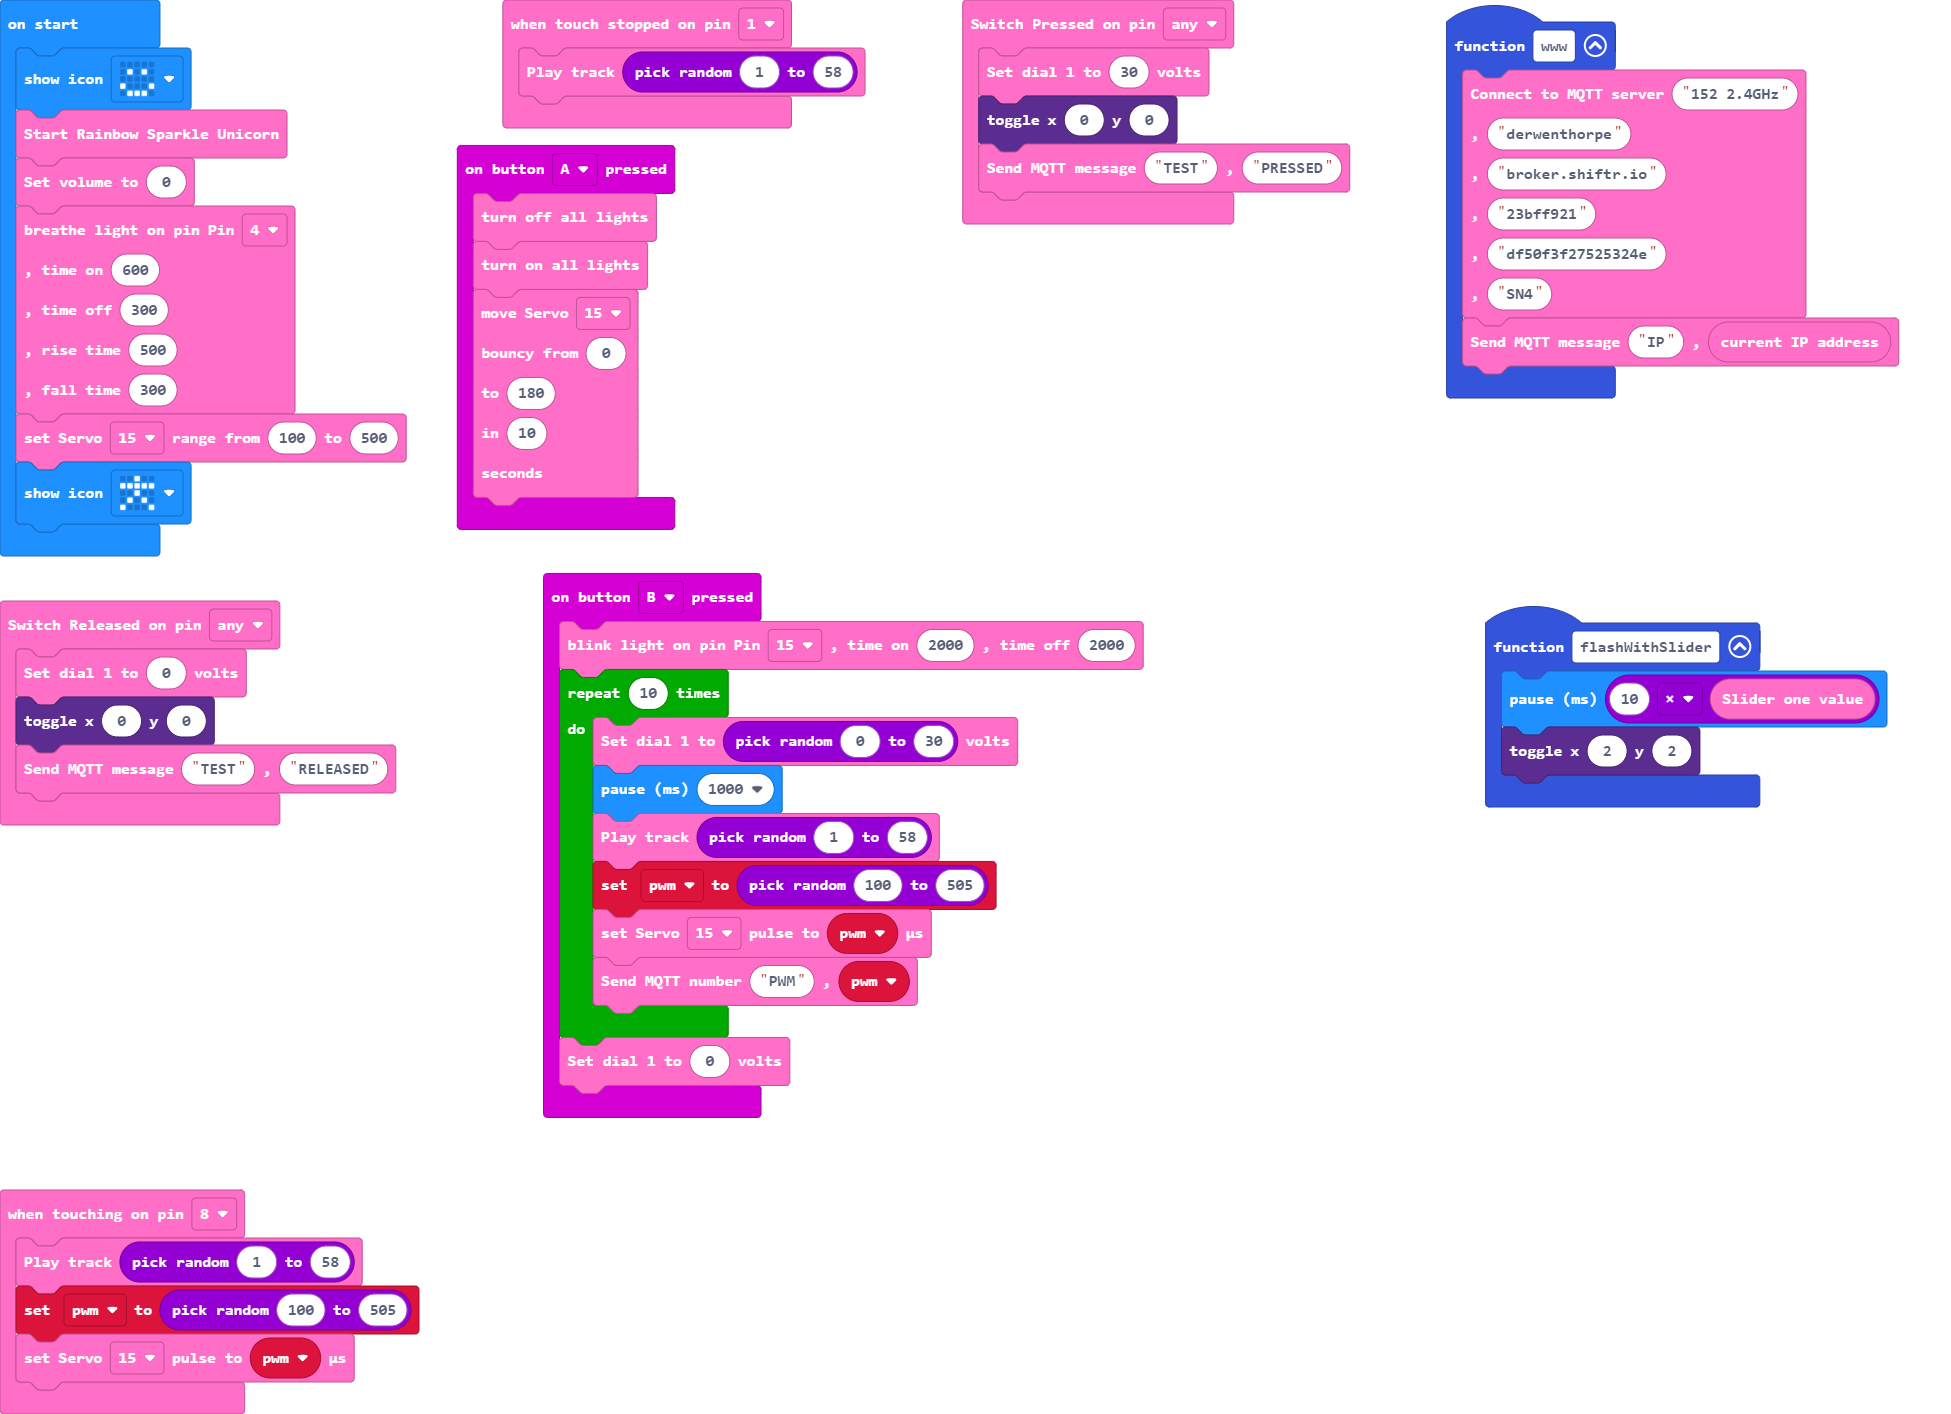
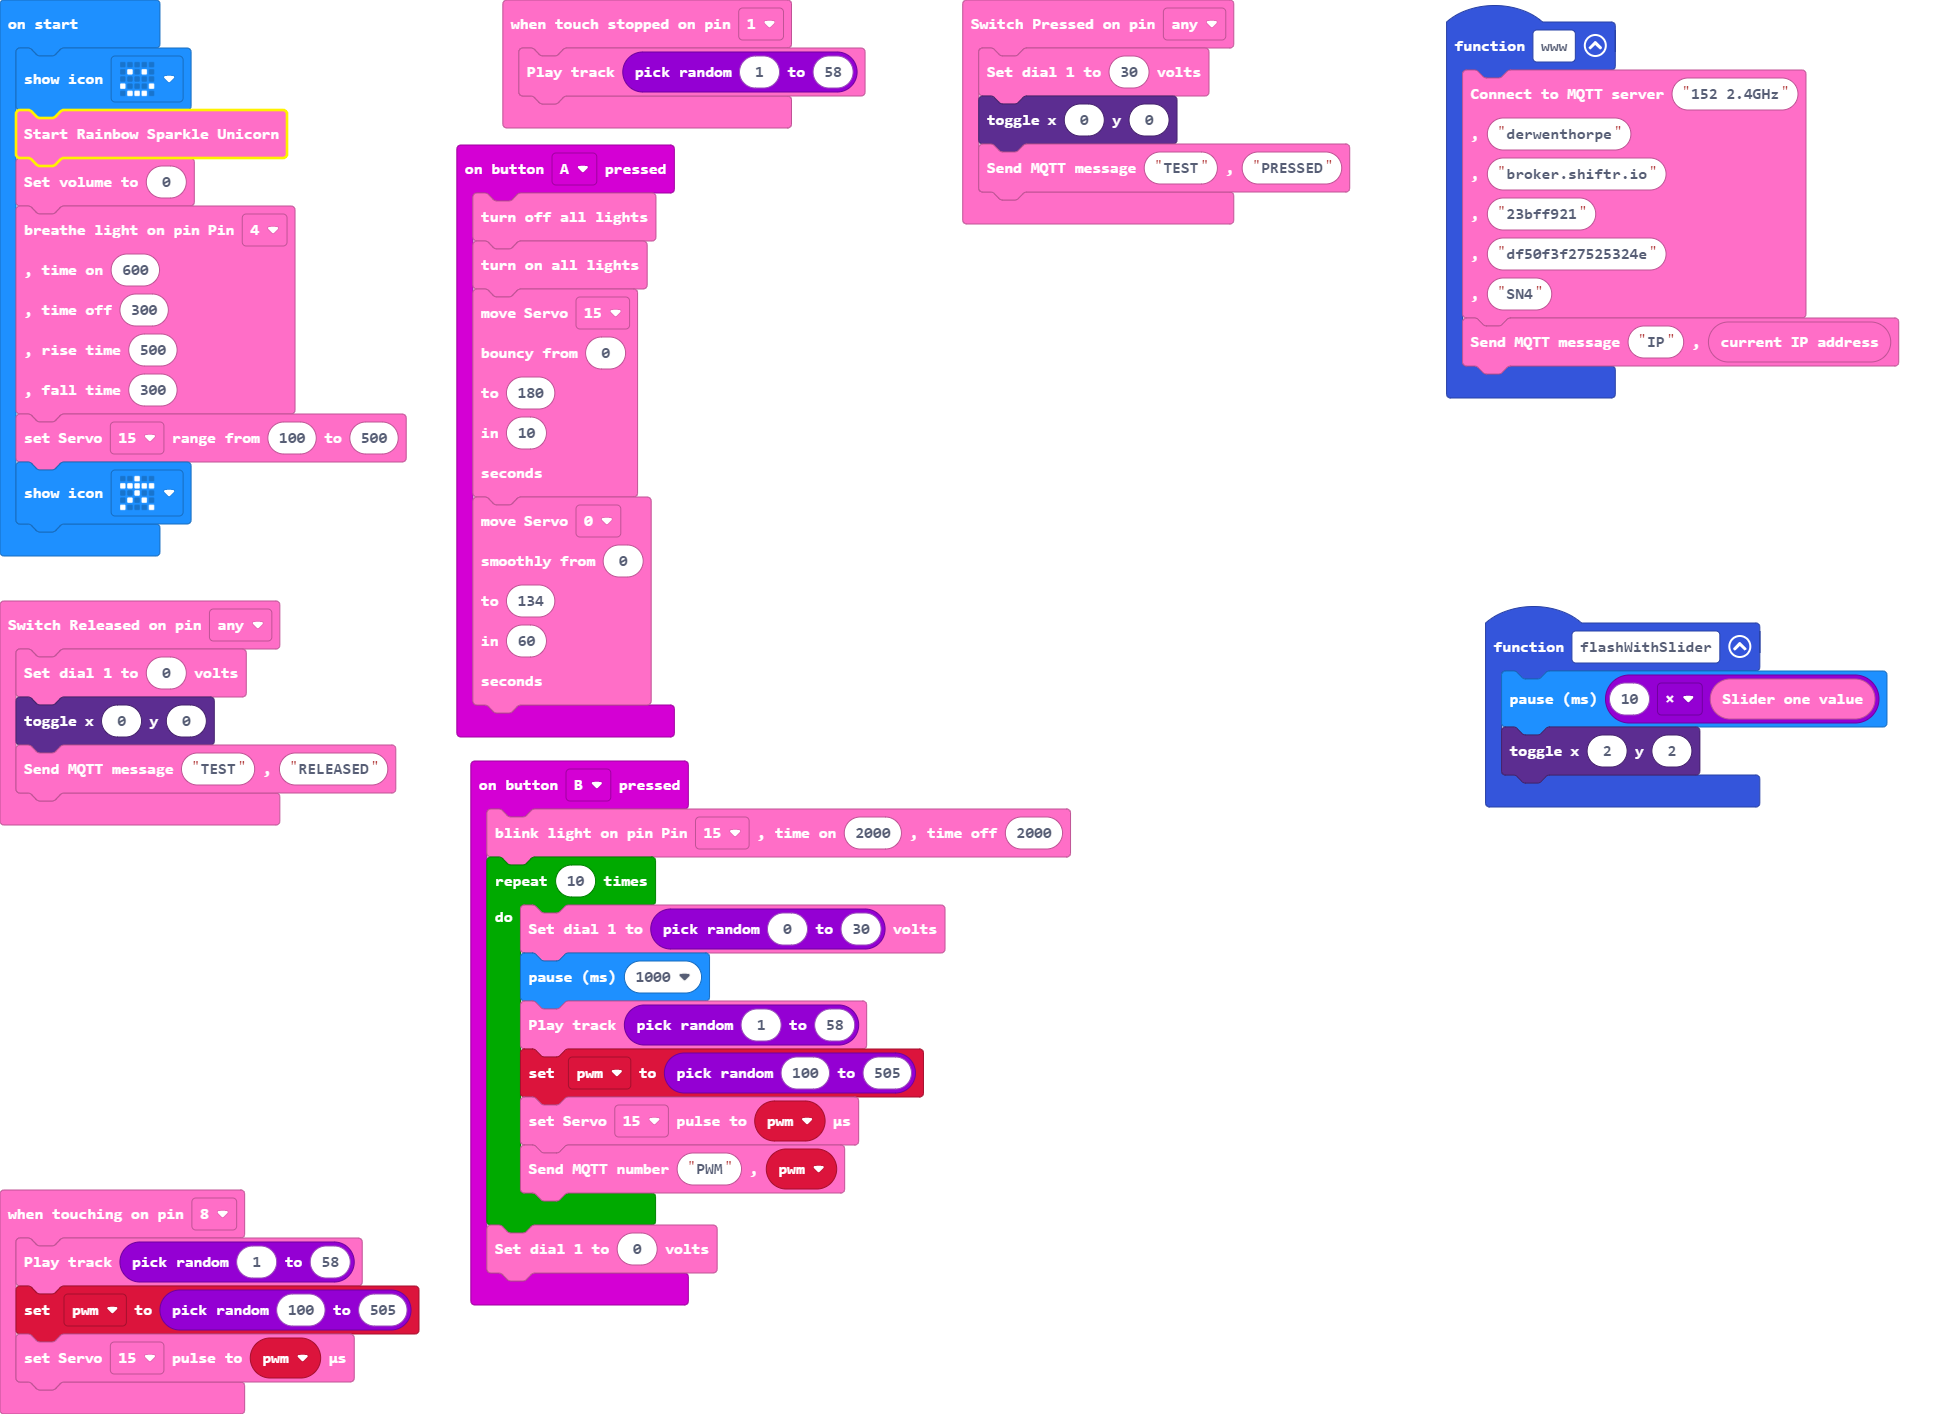
Update pxt.json, main.blocks, main.ts, UART.ts

diff --git a/UART.ts b/UART.ts
@@ -18,8 +18,8 @@ namespace RainbowSparkleUnicorn {
             parseRecievedMessage(msg);
         } else {
             //led.toggle(4,4)
-             sendMessage("error checking message");
-        }    
+             sendMessage("error checking message.");
+        }        
      })
 
      function checkMessage(message: string): boolean

diff --git a/main.ts b/main.ts
@@ -19,6 +19,12 @@ input.onButtonPressed(Button.A, function () {
     180,
     10
     )
+    RainbowSparkleUnicorn.moveServoSmoothly(
+    Servo.S0,
+    0,
+    134,
+    60
+    )
 })
 function www () {
     RainbowSparkleUnicorn.connectToInterWeb(
